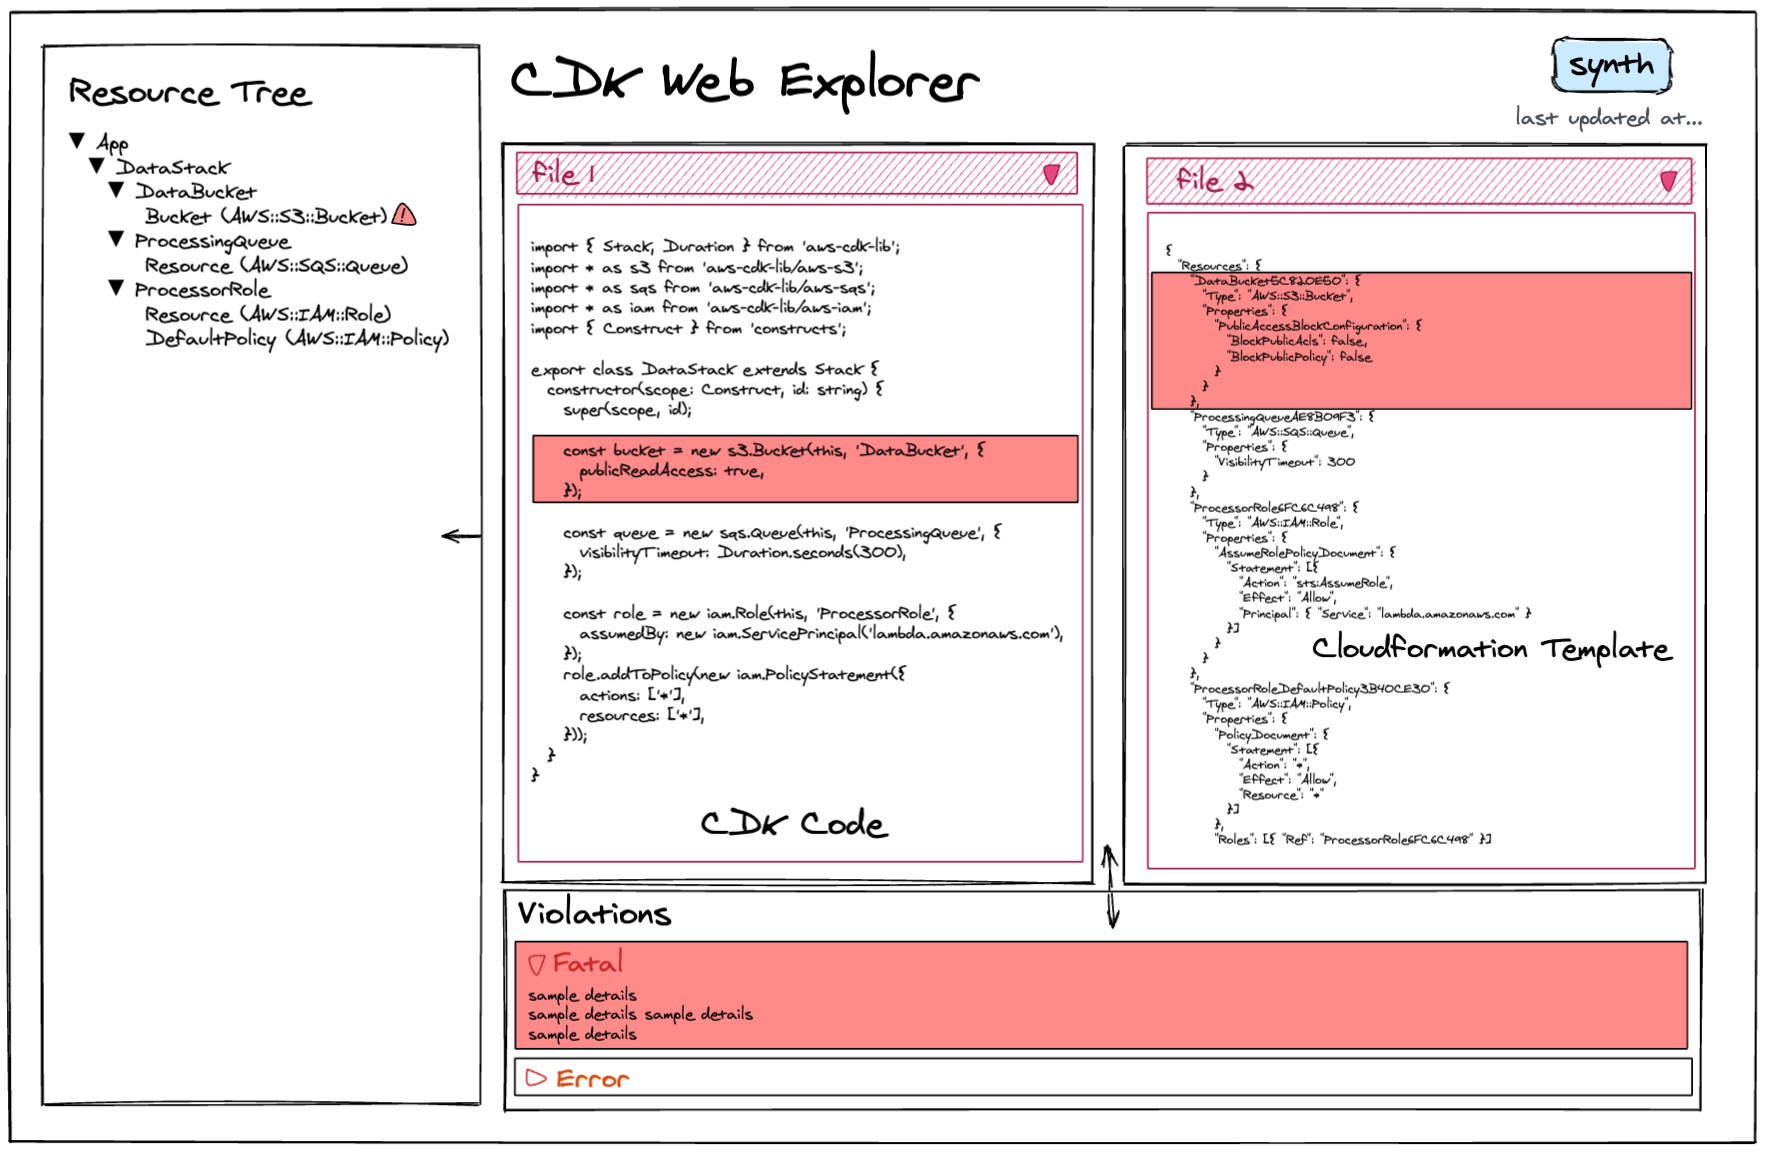
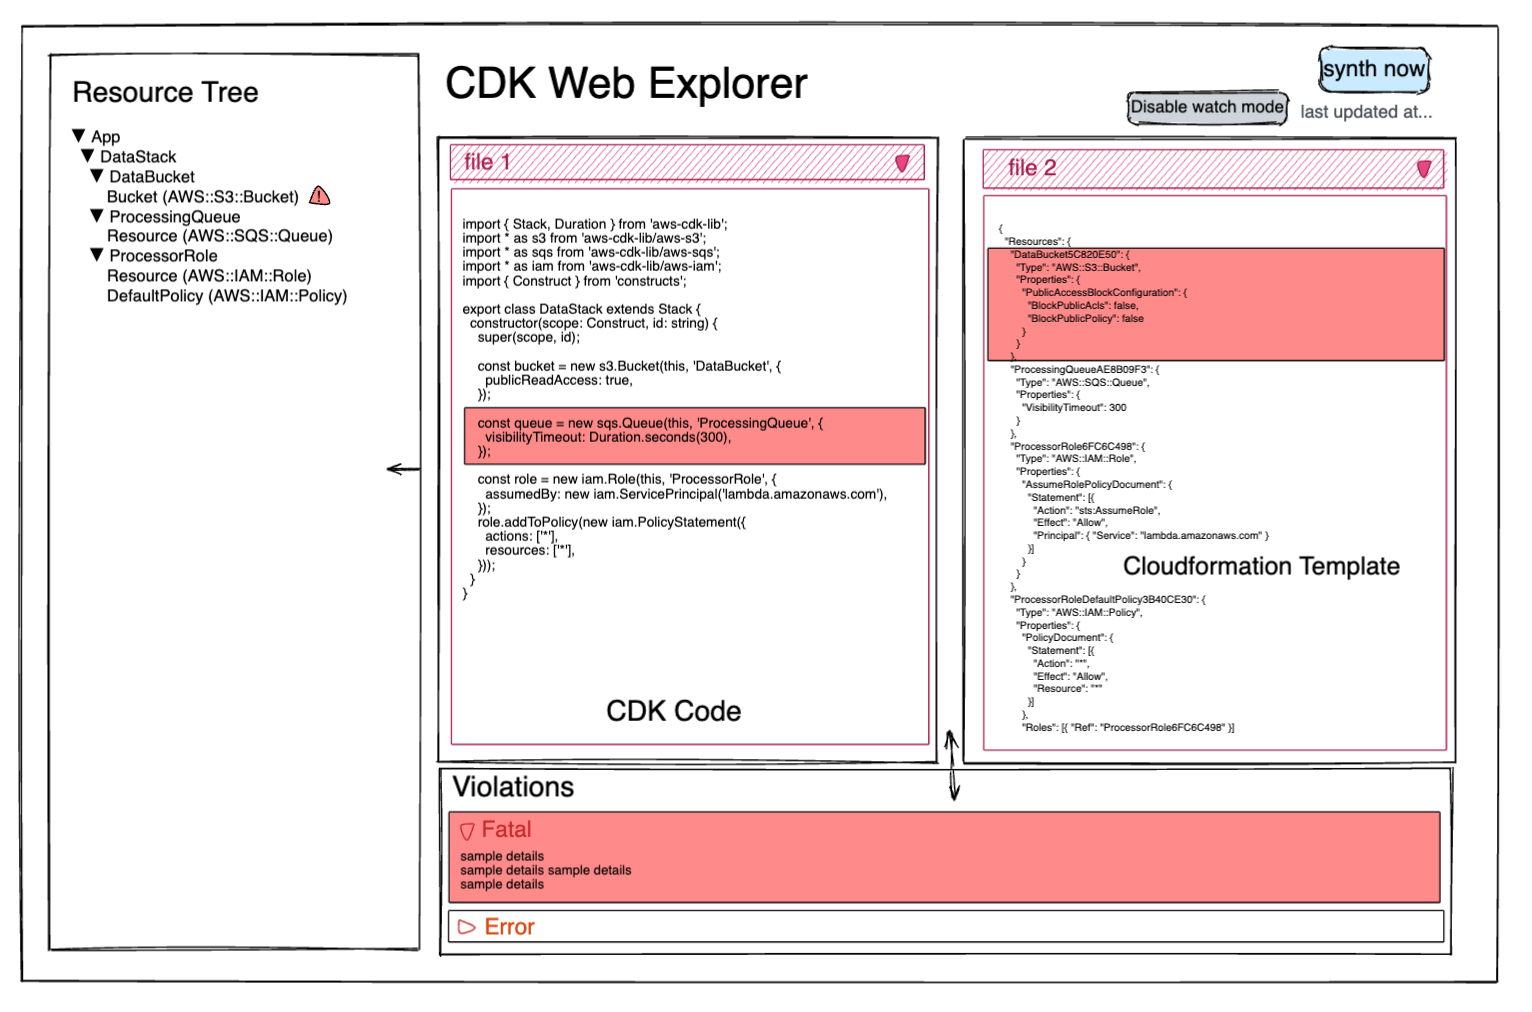
respond to comments

Changed region(s): [[0.0, 0.0, 1.0, 1.0]]

diff --git a/text/0920-lsp-server-and-web-explorer.md b/text/0920-lsp-server-and-web-explorer.md
@@ -2,7 +2,7 @@
 
 * **Author:** [Megha Narayanan](https://quip-amazon.com/YWB9EAizoK4)
 * **Tracking Issue**: [#920](https://github.com/aws/aws-cdk-rfcs/issues/920)
-* **API Bar Raiser**: @ShadowCat567 (lvielto)
+* **API Bar Raiser**: @ShadowCat567
 
 CDK developers cannot see what their code creates, discover deployment failures too late, and must jump between disconnected tools to debug. The CDK
 LSP and Web Explorer close this gap by surfacing construct-to-resource mappings, validation diagnostics, and three-way linked navigation directly in
@@ -31,10 +31,11 @@ the synthesized CloudFormation templates.
 Launch the explorer from any CDK project directory:
 
 ```
-`$ cdk explore
+$ cdk explore [--no-watch]
 CDK Explorer running at http://127.0.0.1:4000
-`
 ```
+
+Use `--no-watch` to disable automatic re-synthesis on file save. Watch mode can also be toggled from within the explorer UI.
 
 The explorer opens in your browser with three linked panels:
 
@@ -52,8 +53,8 @@ the CDK code that generated it.
 A violations sidebar shows offline validation findings grouped by severity. Clicking a violation navigates all three panels to the relevant construct.
 The explorer watches your source files and re-synthesizes automatically on save.  While synthesis is running, a progress indicator appears. If
 synthesis fails, the explorer shows the failure and continues displaying the last successful results. A timestamp shows when data was last refreshed;
-if source files have been modified since, a staleness warning appears. A manual "Synth now" button is available for forced refresh or when auto-synth
-is disabled
+if source files have been modified since, a staleness warning appears. Auto-synth can be toggled off via the explorer UI or initialization options
+for users who find it too slow. A manual "Synth now" button is available for forced refresh or when auto-synth is disabled.
 
 #### Limitations
 
@@ -86,10 +87,16 @@ and diagnostics appear immediately.
 
 #### AI Agent Integration
 
-In Claude Code, install the CDK LSP plugin or add to your `.lsp.json`:
+In Claude Code, install the CDK LSP plugin:
 
 ```
-`{
+claude plugins install cdk-lsp
+```
+
+Or add manually to your `.lsp.json`:
+
+```
+{
   "cdk-lsp": {
     "command": "cdk lsp",
     "extensionToLanguage": { ".ts": "typescript", ".py": "python", ".java": "java" },
@@ -97,7 +104,6 @@ In Claude Code, install the CDK LSP plugin or add to your `.lsp.json`:
     "initializationOptions": { "applicationDir": "${CLAUDE_PROJECT_DIR}" }
   }
 }
-`
 ```
 
 The agent receives diagnostics automatically after every file change, with no manual invocation needed.
@@ -242,7 +248,7 @@ or network calls required. The shared core (embedded in the LSP) parses four fil
 * **`manifest.json`** — stack enumeration, inter-stack dependencies, and asset information
 * **`*.metadata.json`** — source locations (stack traces captured at construct creation time), enabling the LSP to map resources back to the exact
   line of code that created them
-* **`policy-validation-report.json`** — offline validation results (invalid configurations, deprecated runtimes, security issues, best practice
+* **`validation-report.json`** — offline validation results (invalid configurations, deprecated runtimes, security issues, best practice
   violations) produced during synthesis with no extra setup
 
 ### Is this a breaking change?
@@ -262,7 +268,7 @@ means the LSP works standalone in any editor without a plugin or AWS account set
 
 Offline validation runs locally against the synthesized CloudFormation template during `cdk synth` with no credentials or network calls required. It
 catches the majority of actionable violations, like invalid resource types, deprecated runtimes, invalid Fargate CPU/memory combinations, security
-issues, and best practice violations. Results are always available in `cdk.out/policy-validation-report.json` with no extra configuration. Online
+issues, and best practice violations. Results are always available in `cdk.out/validation-report.json` with no extra configuration. Online
 validation may be offered in the future.
 
 **Using `cdk watch` as-is for re-synthesis****.** `cdk watch` monitors files and re-synthesizes, but it is designed for deployment workflows — it
@@ -313,8 +319,8 @@ IDE patterns rather than an embedded web application.
   TypeScript or Python language server. Users with very large apps may find auto-synth too slow to be useful.
 * **Maintenance surface area.** Shipping an LSP server, a web app, a shared core library, and a VSCode extension integration means four components to
   maintain, test, and version. Bugs or regressions in any one component affect the others.
-* **Dependency on cloud assembly stability.** The tools read `tree.json`, `manifest.json`, and `policy-validation-report.json`. The validation report
-  schema is not yet part of the versioned cloud assembly schema, which adds risk.
+* **Dependency on cloud assembly stability.** The tools read `tree.json`, `manifest.json`, and `validation-report.json`. Changes to these schemas
+  require corresponding updates to the shared core.
 * **Adoption risk.** CDK developers have existing workflows. If the tools are too slow, too noisy, or produce stale results, developers may ignore
   them.
 
@@ -337,33 +343,48 @@ annotations, and access construct-to-resource mappings natively.
 
 #### Features
 
-1. [P0] Construct tree parsing and navigation
-2. [P0] Source location resolution
-3. [P0] CodeLens: construct → CloudFormation resource mapping
-4. [P0] LSP Diagnostics: validation violations at source line
-5. [P0] Three-panel linked navigation: tree ↔ template ↔ source
-6. [P0] `cdk explore` CLI command entry point
-7. [P1] Auto-synth on file save
-8. [P1] Diagnostic staleness: fade to Hint on edit, restore on re-synth
-9. [P1] Web explorer updates without reload
-10. [P1] Staleness indicator + "Synth Now" button
-11. [P2] Hover: logical ID, resource type, template file
-12. [P2] Document Symbols: construct tree in editor Outline view
-13. [P2] Inlay Hints: logical IDs inline
-14. [P2] Quick Fix: acknowledge/suppress violations
-15. [P3] VS Code extension: LSP client (spawns cdk lsp on project detection)
-16. [P3] VS Code extension: Enhanced CDK tree
-17. [P4] Synth progress notifications
-18. [P4] Quick Fixes: (AI-powered) actual fixes (add encryption, scope IAM, etc.)
-19. [P4] Error states, performance tuning
+Milestones: M0 = prework, M1 = MVP, M2 = improvements, M3 = extensions.
+
+1. [M0] Construct tree parsing and navigation
+2. [M0] Source location resolution
+3. [M1] CodeLens: construct → CloudFormation resource mapping
+4. [M1] LSP Diagnostics: validation violations at source line
+5. [M1] Three-panel linked navigation: tree ↔ template ↔ source
+6. [M1] `cdk explore` CLI command entry point
+7. [M1] Auto-synth on file save
+8. [M2] Diagnostic staleness: fade to Hint on edit, restore on re-synth
+9. [M2] Web explorer updates without reload
+10. [M2] Staleness indicator + "Synth Now" button
+11. [M2] Hover: logical ID, resource type, template file
+12. [M2] Document Symbols: construct tree in editor Outline view
+13. [M2] Inlay Hints: logical IDs inline
+14. [M2] Quick Fix: acknowledge/suppress violations
+15. [M3] VS Code extension: LSP client (spawns cdk lsp on project detection)
+16. [M3] VS Code extension: Enhanced CDK tree
+17. [M3] Synth progress notifications
+18. [M3] Quick Fixes: (AI-powered) actual fixes (add encryption, scope IAM, etc.)
+19. [M3] Error states, performance tuning
 
 ### Are there any open issues that need to be addressed later?
 
 * **AWS Toolkit integration.** Embedding the LSP client and enhancing the existing CDK view into the AWS Toolkit VSCode extension requires
   coordination with the AWS Toolkit team. Their contribution guidelines, release cadence, and extension architecture may constrain how the integration
   is built.
-* **Validation report schema stabilization.** The `policy-validation-report.json` schema is not yet part of the versioned cloud assembly schema
-  (`cdklabs/cloud-assembly-schema`). This is pending and expected to be resolved by project launch.
+
+## Out of Scope / Future Extensions
+
+The following are intentionally out of scope for the initial launch but represent natural follow-up work:
+
+* **Non-TypeScript LSP diagnostic support.** Source-location-linked features for jsii languages
+* **Click-to-fix UI for violations.** If a violation has a suggested fix, the web explorer could offer a "Fix" button that applies the change
+  directly.
+* **Click-to-deploy from the explorer.** A "Deploy" button in the web explorer
+* **Asset exploration.** Surface asset metadata (size, type, connected resources) through the LSP and web explorer.
+* **Feature flags management.** Display and manage feature flag state from the web explorer.
+* **Online validation.** Trigger online validation from the explorer or editor. Requires AWS credentials and surfaces account-specific findings.
+* **AI-powered quick fixes.** Using an AI model to generate fixes for violations based on structured context (rule name, construct path, resource
+  type, violating properties).
+* **Agent configuration bundling.** Bundle CDK agent configuration with aws-agent-toolkit rather than maintaining a separate `.lsp.json`.
 
 ## Appendix
 